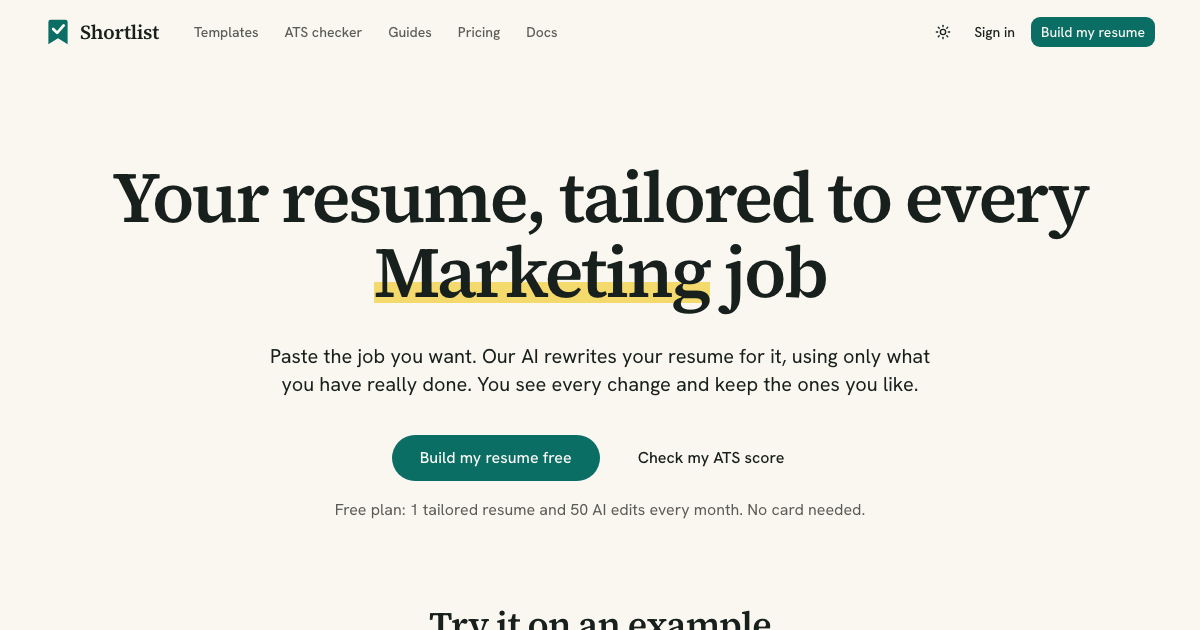
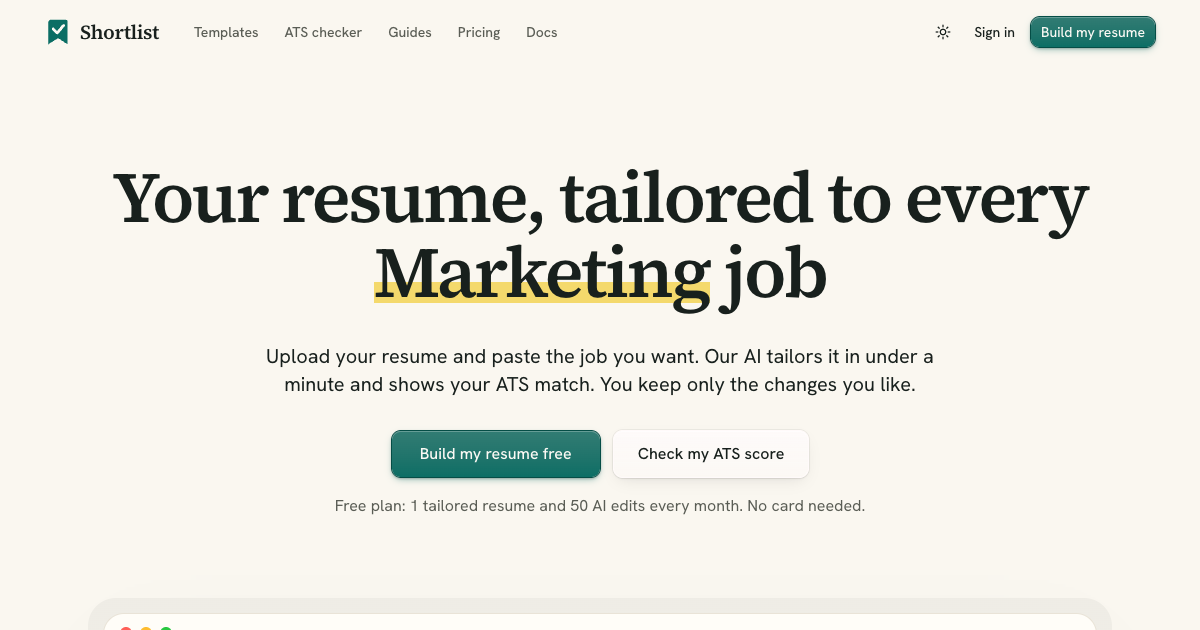
Retake the link preview image from the current homepage hero, and version its URL so apps drop the cached one

diff --git a/frontend/src/routes/__root.tsx b/frontend/src/routes/__root.tsx
@@ -26,7 +26,8 @@ export const Route = createRootRouteWithContext<RouterContext>()({
       { property: 'og:site_name', content: site.name },
       { property: 'og:type', content: 'website' },
       // Link previews (WhatsApp, LinkedIn, X) show the homepage's first screen instead of whatever image comes first.
-      { property: 'og:image', content: `${site.url}/og.png` },
+      // Bump ?v= when og.png changes: those apps cache previews by image URL.
+      { property: 'og:image', content: `${site.url}/og.png?v=2` },
       { property: 'og:image:width', content: '1200' },
       { property: 'og:image:height', content: '630' },
       {
@@ -34,7 +35,7 @@ export const Route = createRootRouteWithContext<RouterContext>()({
         content: `${site.name}: your resume, rewritten for every job you apply to`,
       },
       { name: 'twitter:card', content: 'summary_large_image' },
-      { name: 'twitter:image', content: `${site.url}/og.png` },
+      { name: 'twitter:image', content: `${site.url}/og.png?v=2` },
     ],
     links: [
       { rel: 'stylesheet', href: appCss },
